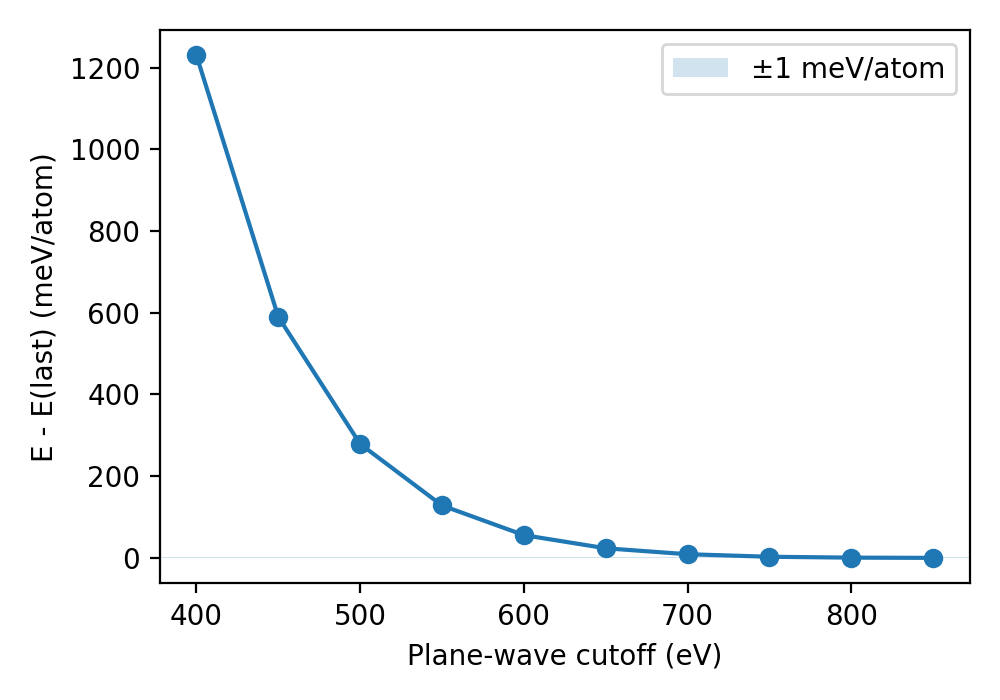
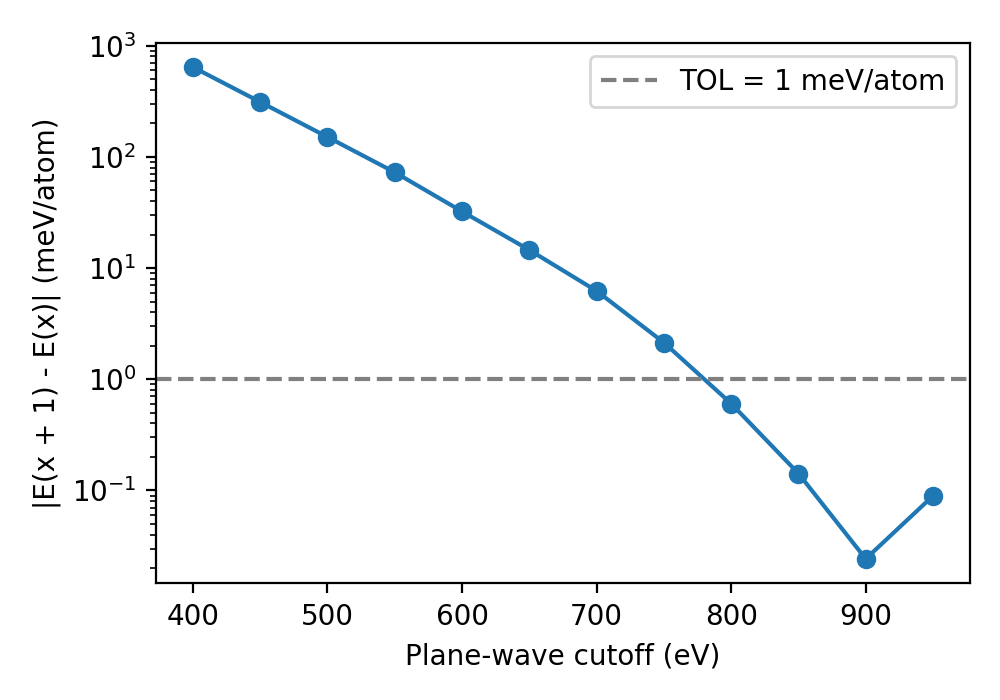
Update cutoff and k-point convergence script
Find convergenve based on consecutive-difference

diff --git a/scripts/convergence_ceo2.py b/scripts/convergence_ceo2.py
@@ -1,51 +1,74 @@
+"""Cutoff and k-point convergence tests for bulk CeO2 with GPAW.
+
+Optimum scans on the 3-atom primitive cell:
+  1. Plane-wave cutoff, at a fixed k-mesh.
+  2. k-mesh, at a fixed plane-wave cutoff.
+
+"""
 import os
 import csv
 
 import matplotlib
-matplotlib.use("Agg")  # headless backend for the cluster
+matplotlib.use('Agg')   # Headless backend: save figures to file, never open a window
 import matplotlib.pyplot as plt
 
 from gpaw import GPAW, PW
 from gpaw.mpi import world
 from ase.build import bulk
-from ase.io import read, write
-from ase.optimize import QuasiNewton
 
 # --- Settings ---------------------
-A = 5.41                # Staring lattice constant (Å), based on experimental value
+A = 5.41                # Starting lattice constant (Å), based on experimental value
 U = 5.0                 # Hubbard U on Ce 4f (eV), fixed during convergence
-XC = 'PBE'
-CUTOFFS = list(range(400, 851, 50))     # Range of cutoffs to test (eV)
-KPOINTS = [2, 3, 4, 5, 6, 7, 8]         # k-points scanned (eV)
-ECUT_FIXED = 600                        # cutoff used in k-point scan (eV)
-KPTS_FIXED = 4                          # k-mesh used in the cutoff scan (eV)
-TOL = 0.001                             # convergenve target (eV/atom = 1 meV/atom)
-# ------------------------------------
+XC = 'PBE'              # Exchange-correlation functional
 
+CUTOFFS = list(range(400, 1001, 50))     # Range of cutoffs to test (eV)
+KPOINTS = [2, 3, 4, 5, 6, 7, 8, 9, 10]         # Range of k-points to test (eV)
+
+ECUT_FIXED = 700                        # Cutoff fixed in k-point scan (eV)
+KPTS_FIXED = 4                          # k-mesh fixed in the cutoff scan (eV)
+
+TOL = 0.001                             # Convergence target (eV/atom = 1 meV/atom)
+
+# --- Output directories -------------
 os.makedirs('results', exist_ok = True)
 os.makedirs('logs', exist_ok = True)
 
 # --- Functions ----------------------
 def energy_per_atom(ecut, k):
-    '''Calculate Potential Energy of CeO2 pr. Atom with ecut & k'''
-    atoms = bulk('CeO2', 'fluorite', a = A)     # 3-atom primitive cell
+    """Return the DFT total energy per atom (eV/atom) of CeO2.
+
+    ecut : plane-wave cutoff (eV)
+    k    : k-points per direction, giving a k x k x k Γ-centred mesh
+    """
+    # Fluorite CeO2 as the 3-atom primitive cell
+    atoms = bulk('CeO2', 'fluorite', a = A)  
+
     atoms.calc = GPAW(
         mode = PW(ecut),
         xc = XC,
+        # DFT+U: ':f,U' applies the Hubbard correction to the Ce f-channel,
+        # which corrects the self-interaction error on the localised 4f states
         setups = {'Ce': f':f,{U}'},
+        # Γ-centred mesh (includes the k = 0 point)
         kpts = {'size': (k, k, k), 
                 'gamma': True
                 },
+        # Small electronic smearing helps SCF convergence; at 0.05 eV it has a
+        # negligible effect on the energy of an insulator like CeO2
         occupations = {'name': 'fermi-dirac', 
                        'width': 0.05
                        },
+        # SCF stops when the energy changes by less than 1e-6 eV
+        # (tighter than TOL, so SCF noise does not hide the trend)
         convergence = {'energy': 1e-6},
-        txt = f'logs/conv_ecut{ecut}:k{k}.txt',
+        txt = f'logs/conv_ecut{ecut}_k{k}.txt',     # one log per calculation
     )
+    # Divide by atom count so results are comparable between cell sizes
     return atoms.get_potential_energy() / len(atoms)
 
 def save_csv(name, header, rows):
-    '''Save result only for one CPU'''
+    """Write results to results/<name>.csv 
+    (rank 0 only, to enable MPI parallization)."""
     if world.rank == 0:
         with open(f'results/{name}.csv', 'w', newline = "") as f:
             w = csv.writer(f)
@@ -53,30 +76,42 @@ def save_csv(name, header, rows):
             w.writerows(rows)
 
 def first_converged(xs, es):
-    '''First x whose energy stays within the TOL of the final (best)'''
-    ref = es[-1]
+    """Return the first setting x for which every later step changes the
+    energy by less than TOL; None if no setting qualifies (extend range).
 
-    for i, x in enumerate(xs):
-        if all(abs(e - ref) < TOL for e in es[i:]):
+    The changes at x is |E(x + 1) - E(x)|, i.e. what you would still gain by
+    increasing the setting by one step
+
+    NOTE: The last point has no 'next' step and can therefore not be converged.
+    """
+    steps = [abs(es[i + 1] - es[i]) for i in range(len(es) - 1)]
+
+    for i, x in enumerate(xs[:-1]):
+        if all(s < TOL for s in steps[i:]):
             return x
 
     return None
 
 def plot(xs, es, xlabel, name):
+    """Plot the energy change relative to the next point (meV/atom, log scale) against
+    the setting, with the TOL line dashed, and save to results/ (rank 0 only).
+    
+    A setting is converged once its point, and all points to its right,
+    lie below the dashed line."""
     if world.rank != 0:
         return
 
-    ref = es[-1]
-    de = [(e - ref) * 1000 for e in es]     # Convert to meV/atom
+    steps = [abs(es[i + 1] - es[i]) * 1000 for i in range(len(es) - 1)]   # meV/atom
 
     fig, ax = plt.subplots(figsize = (5, 3.5))
-    ax.plot(xs, de, 'o-')
-    ax.axhspan(-TOL * 1000, TOL * 1000, alpha = 0.2, label = f'±{TOL*1000:.0f} meV/atom')
+    ax.semilogy(xs[:-1], steps, 'o-')
+    ax.axhline(TOL * 1000, ls = '--', color = 'gray', label = f'TOL = {TOL*1000:.0f} meV/atom')
     ax.set_xlabel(xlabel)
-    ax.set_ylabel('E - E(last) (meV/atom)')
+    ax.set_ylabel('|E(x + 1) - E(x)| (meV/atom)')
     ax.legend()
     fig.tight_layout()
     fig.savefig(f'results/{name}.png', dpi = 200)
+    plt.close(fig)
 # ------------------------------------
 
 # ---- Cutoff scan -------------------
